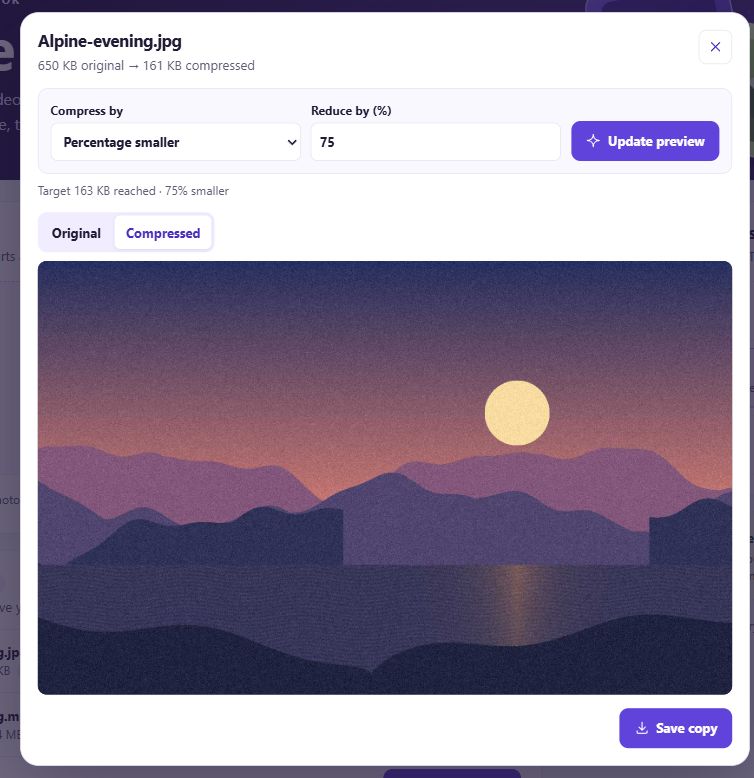
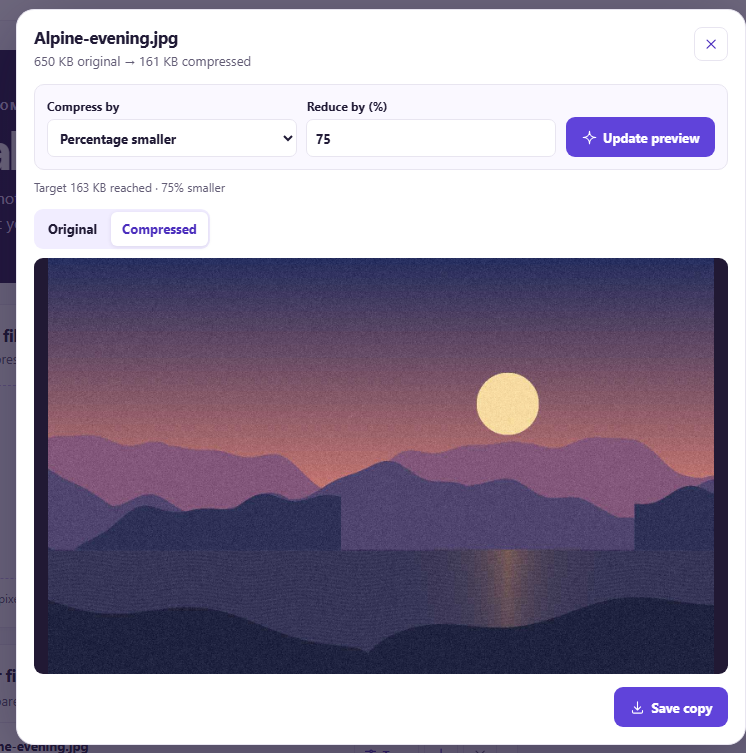
Refresh screenshots and the Choose files demo

diff --git a/README.md b/README.md
@@ -8,16 +8,17 @@ Download `Pocketspace-Windows-x64.zip` from the [latest release](https://github.
 
 ## Quick demo
 
-![Pocketspace demo loading the sample files, applying a 75 percent reduction, comparing the original and compressed previews, and saving the JPEG](docs/screenshots/pocketspace-demo.gif)
+![Pocketspace demo choosing a JPEG, applying a 75 percent reduction, comparing previews, and saving the compressed copy](docs/screenshots/pocketspace-demo.gif)
 
-1. Click **Try sample files**. Pocketspace compresses the bundled photo and video and shows the savings in **Your files**.
+1. Click **Choose files** and select a JPEG. Pocketspace compresses it and shows the savings in **Your files**.
+2. Click **Tune** beside the photo. Choose **Percentage smaller**, enter **75**, and click **Update preview**. The photo in this demo went from 650 KB to 161 KB.
+3. Switch between **Original** and **Compressed** to compare. Click **Save copy** to keep the smaller JPEG.
 
-   ![Pocketspace on Windows showing the bundled JPEG and MP4 with their original and compressed sizes](docs/screenshots/windows-results.png)
+### Screenshots
 
-2. Click **Tune** beside `Alpine-evening.jpg`. Choose **Percentage smaller**, enter **75**, and click **Update preview**. In this run, the photo went from 650 KB to 161 KB.
-3. Switch between **Original** and **Compressed** to compare. Click **Save copy** to keep the smaller version.
+![Pocketspace showing compression results for a photo selected using Choose files](docs/screenshots/windows-results.png)
 
-   ![The Tune dialog showing the compressed Alpine evening photo after a 75 percent reduction](docs/screenshots/windows-tune.png)
+![The Tune dialog showing the compressed photo and its file size](docs/screenshots/windows-tune.png)
 
 ## What you can do
 
